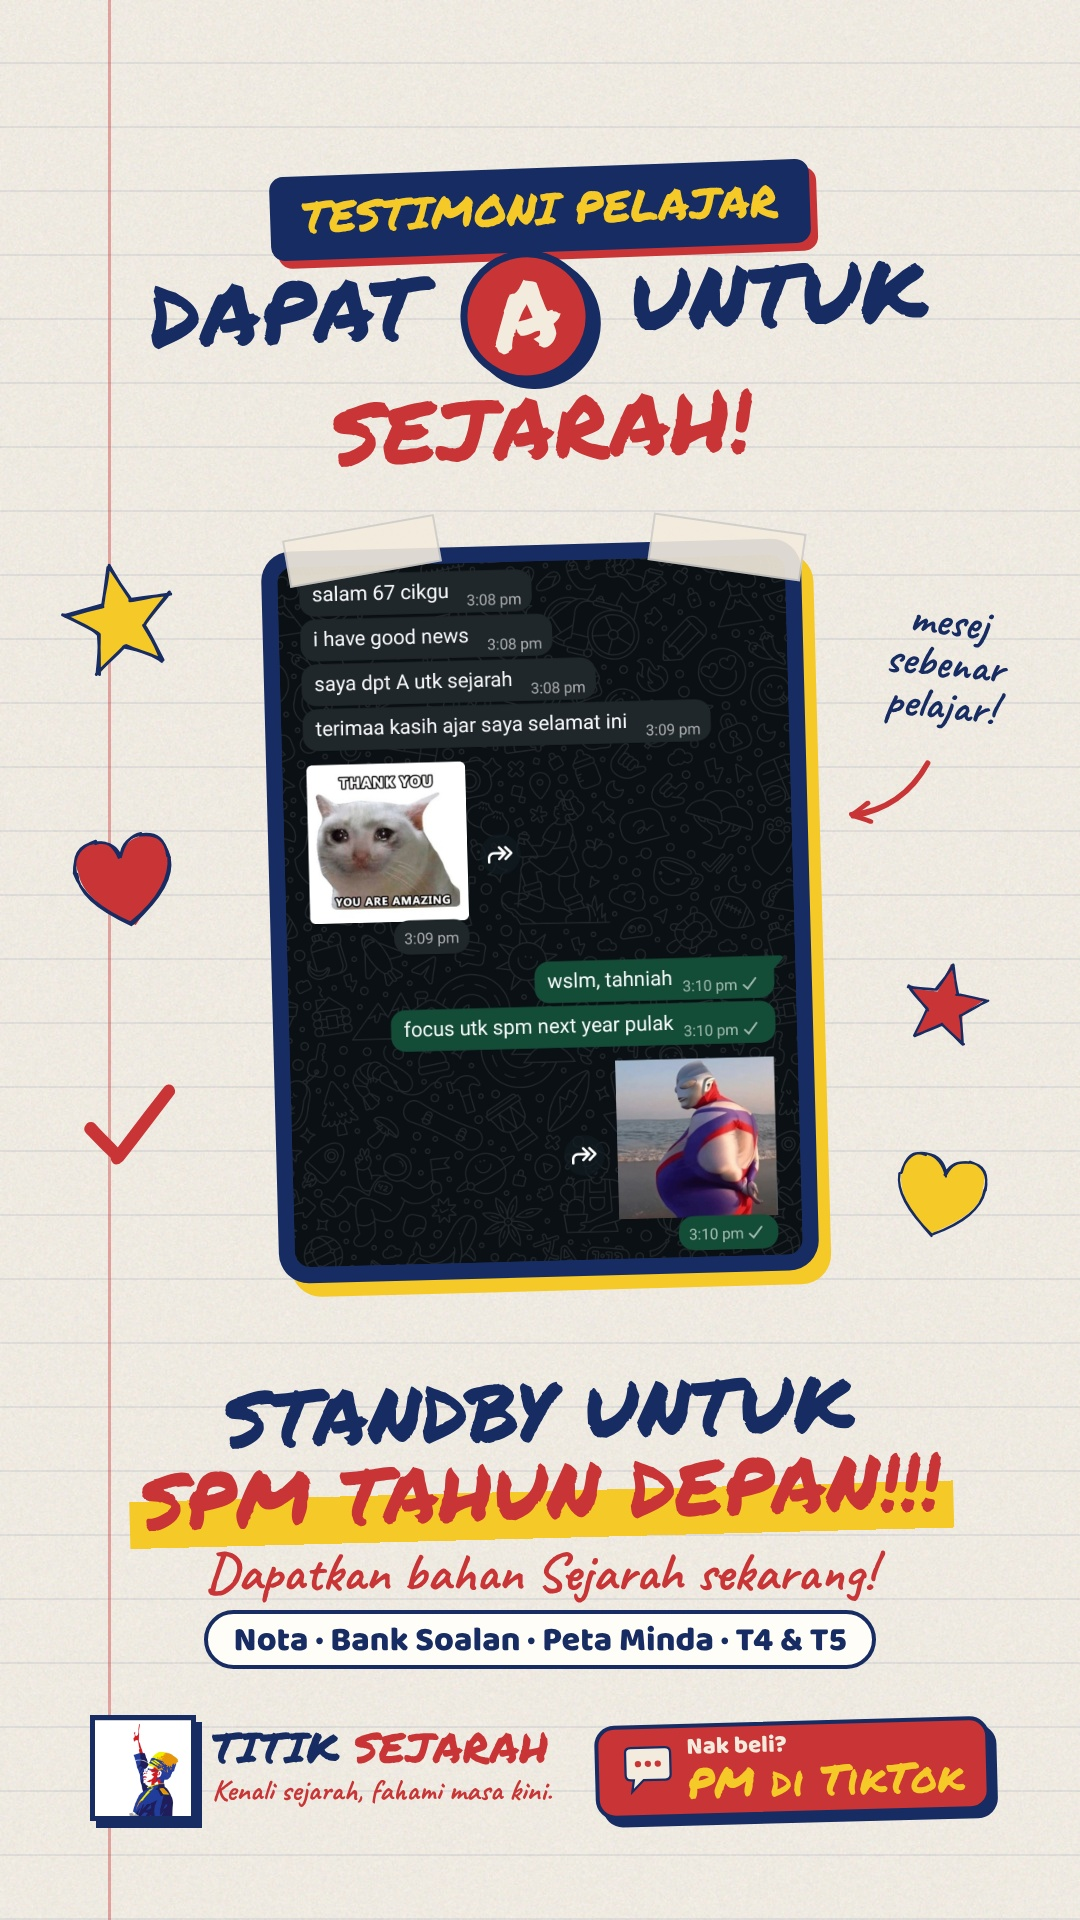
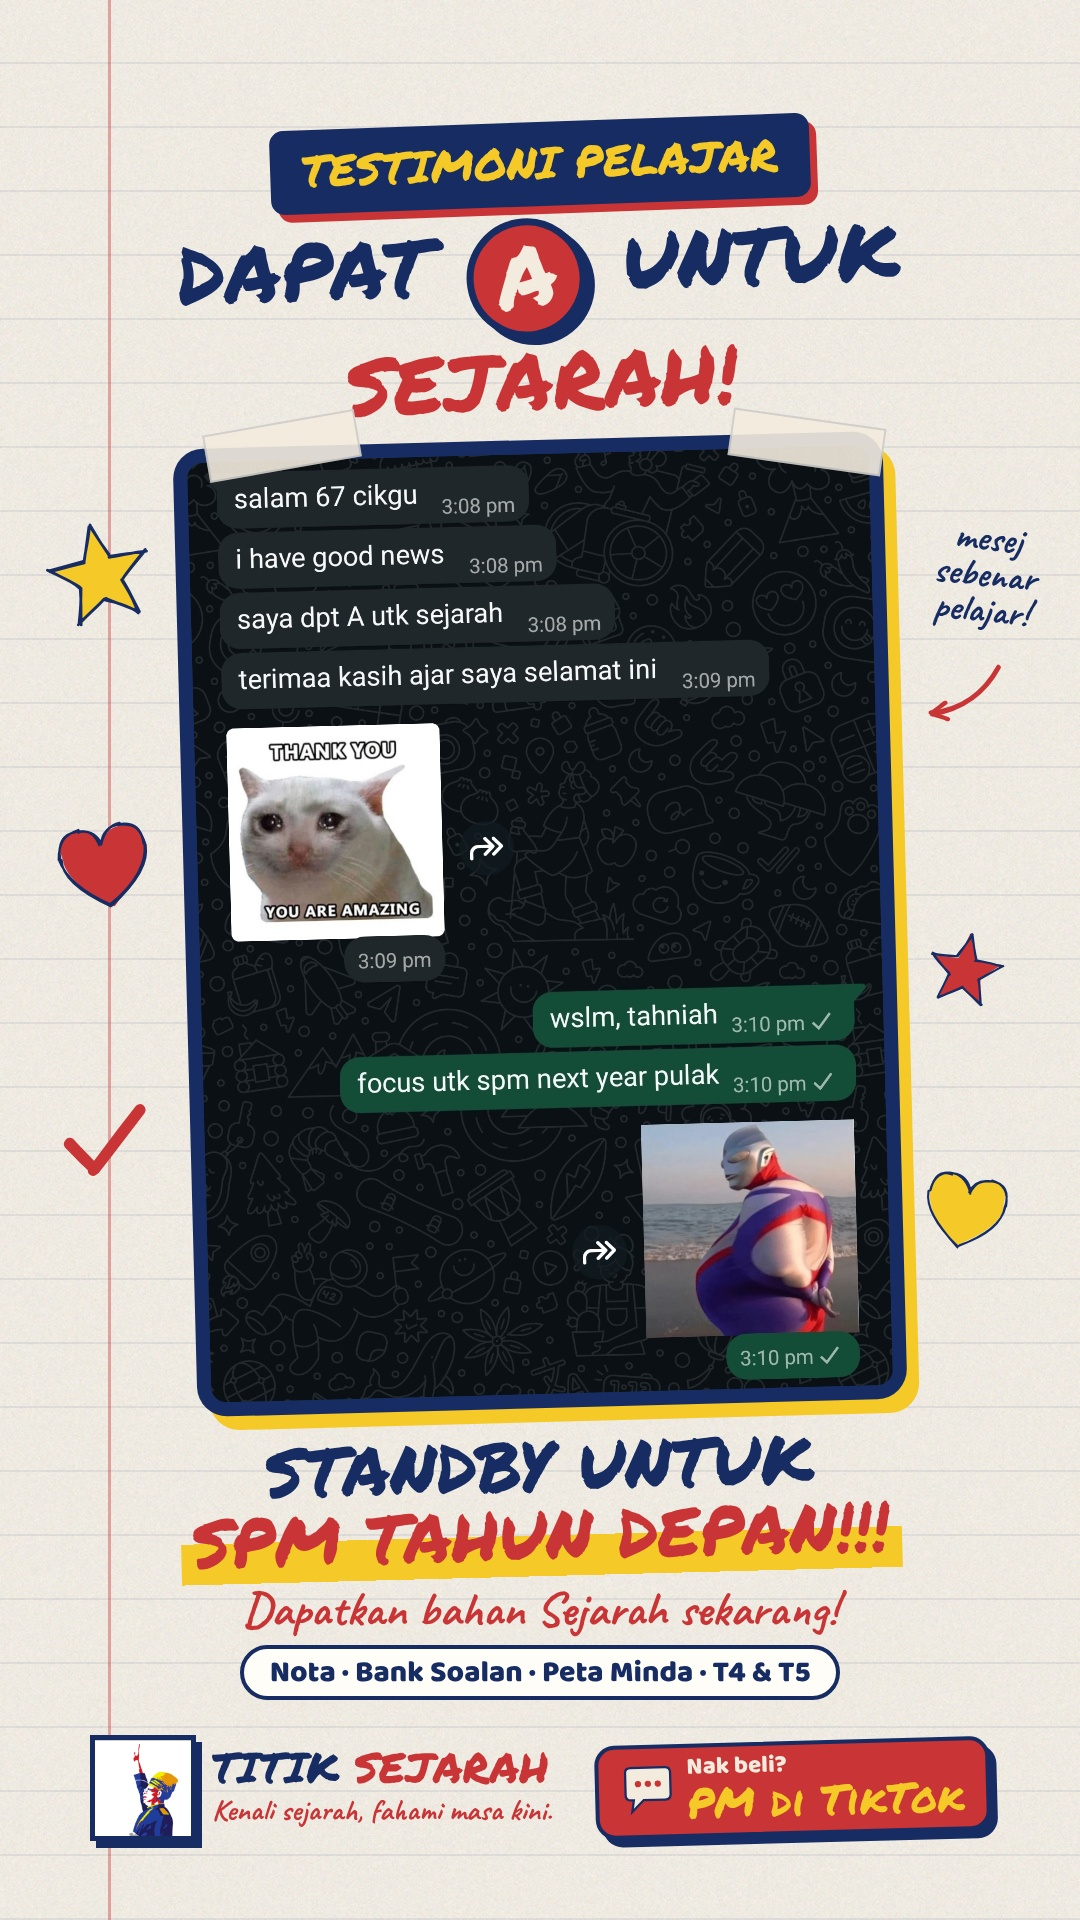
Testimonial 02: enlarge chat screenshot (~30% bigger) and rebalance layout
Claude-Session: https://claude.ai/code/session_01J6XTmEEfaGyASqYC8kTvFV

diff --git a/engine/poster_testi02.html b/engine/poster_testi02.html
@@ -18,17 +18,17 @@ html,body{margin:0;width:1080px;height:1920px;overflow:hidden}
 .ctr{left:0;width:1080px;text-align:center}
 .red{color:#C93436}
 .chip{display:inline-block;background:#172C63;color:#F5C928;font-family:'Marker';font-size:44px;padding:8px 32px 12px;border-radius:14px;box-shadow:7px 8px 0 #C93436}
-.head{font-family:'Marker';font-size:86px;line-height:1.0;white-space:nowrap}
-.gA{display:inline-block;background:#C93436;color:#F3EBDD;border:7px solid #172C63;border-radius:50%;width:118px;height:118px;line-height:108px;text-align:center;font-size:96px;box-shadow:7px 8px 0 #172C63;transform:rotate(-8deg);margin:0 6px;vertical-align:-14px}
-.shot{left:270px;top:545px;width:540px;box-sizing:border-box;padding:16px;background:#172C63;border-radius:30px;box-shadow:12px 14px 0 #F5C928;transform:rotate(-1.5deg)}
+.head{font-family:'Marker';font-size:80px;line-height:1.0;white-space:nowrap}
+.gA{display:inline-block;background:#C93436;color:#F3EBDD;border:7px solid #172C63;border-radius:50%;width:106px;height:106px;line-height:96px;text-align:center;font-size:86px;box-shadow:7px 8px 0 #172C63;transform:rotate(-8deg);margin:0 6px;vertical-align:-14px}
+.shot{left:185px;top:440px;width:710px;box-sizing:border-box;padding:14px;background:#172C63;border-radius:30px;box-shadow:12px 14px 0 #F5C928;transform:rotate(-1.5deg)}
 .shot img{display:block;width:100%;border-radius:16px}
 .tape{position:absolute;width:150px;height:44px;background:rgba(243,235,221,.9);border:2px solid rgba(23,44,99,.15)}
-.note{font-family:'Caveat';font-weight:700;font-size:44px;color:#172C63;line-height:.95;text-align:center}
-.cta1{font-family:'Marker';font-size:78px;line-height:1.02;white-space:nowrap}
+.note{font-family:'Caveat';font-weight:700;font-size:38px;color:#172C63;line-height:.95;text-align:center}
+.cta1{font-family:'Marker';font-size:68px;line-height:1.02;white-space:nowrap}
 .hl{background:linear-gradient(to bottom,transparent 52%,#F5C928 52%,#F5C928 94%,transparent 94%);padding:0 12px}
-.cta2{font-family:'Caveat';font-weight:700;font-size:54px;color:#C93436;line-height:1}
-.prod{display:inline-block;font-family:'Baloo';font-weight:800;font-size:34px;line-height:1.1;background:#FFFDF7;border:4px solid #172C63;border-radius:999px;padding:8px 26px 6px}
-.foot{left:90px;width:900px;top:1715px;display:flex;align-items:center;justify-content:space-between}
+.cta2{font-family:'Caveat';font-weight:700;font-size:48px;color:#C93436;line-height:1}
+.prod{display:inline-block;font-family:'Baloo';font-weight:800;font-size:30px;line-height:1.1;background:#FFFDF7;border:4px solid #172C63;border-radius:999px;padding:8px 26px 6px}
+.foot{left:90px;width:900px;top:1735px;display:flex;align-items:center;justify-content:space-between}
 .brand{display:flex;align-items:center;gap:16px}
 .brand .dp{width:96px;height:96px;border:5px solid #172C63;background:#fff url(../assets/brand/titik-sejarah-dp-square.jpg) center/cover;box-shadow:6px 7px 0 #172C63;flex:none}
 .brand .t{font-family:'Marker';font-size:42px;line-height:.95}
@@ -51,26 +51,26 @@ await document.fonts.ready;
 setSeed(202);
 
 // 1) Label + headline from the student's own message ("saya dpt A utk sejarah")
-add('<span class="chip">TESTIMONI PELAJAR</span>', 'top:168px;transform:rotate(-2deg)', 'abs ctr');
-add('DAPAT <span class="gA">A</span> UNTUK<br><span class="red">SEJARAH!</span>', 'top:250px;transform:rotate(-2deg)', 'abs ctr head');
+add('<span class="chip">TESTIMONI PELAJAR</span>', 'top:122px;transform:rotate(-2deg)', 'abs ctr');
+add('DAPAT <span class="gA">A</span> UNTUK<br><span class="red">SEJARAH!</span>', 'top:218px;transform:rotate(-2deg)', 'abs ctr head');
 
 // 2) The real conversation (full screenshot, unedited)
 add('<img src="../assets/testimonials/testi02_source.jpg" alt="">', '', 'abs shot');
-add('', 'left:285px;top:527px;transform:rotate(-10deg)', 'abs tape');
-add('', 'left:650px;top:523px;transform:rotate(8deg)', 'abs tape');
+add('', 'left:205px;top:422px;transform:rotate(-10deg)', 'abs tape');
+add('', 'left:730px;top:418px;transform:rotate(8deg)', 'abs tape');
 // margin notes + doodles
-add('mesej<br>sebenar<br>pelajar!', 'left:845px;top:600px;width:200px;transform:rotate(6deg)', 'abs note');
-add(D.arrow(110, 10, 10, 80, { w: 120, h: 90, color: C.red, sw: 6, bend: -0.25 }), 'left:845px;top:755px;width:90px');
-add(D.star(C.gold), 'left:60px;top:560px;width:120px;transform:rotate(-12deg)');
-add(D.heart(C.red), 'left:70px;top:830px;width:110px;transform:rotate(-10deg)');
-add(D.check(C.red), 'left:80px;top:1080px;width:100px');
-add(D.star(C.red), 'left:900px;top:960px;width:90px;transform:rotate(10deg)');
-add(D.heart(C.gold), 'left:890px;top:1150px;width:100px;transform:rotate(12deg)');
+add('mesej<br>sebenar<br>pelajar!', 'left:900px;top:520px;width:170px;transform:rotate(6deg)', 'abs note');
+add(D.arrow(110, 10, 10, 80, { w: 120, h: 90, color: C.red, sw: 6, bend: -0.25 }), 'left:925px;top:660px;width:80px');
+add(D.star(C.gold), 'left:45px;top:520px;width:110px;transform:rotate(-12deg)');
+add(D.heart(C.red), 'left:55px;top:820px;width:100px;transform:rotate(-10deg)');
+add(D.check(C.red), 'left:60px;top:1100px;width:90px');
+add(D.star(C.red), 'left:925px;top:930px;width:80px;transform:rotate(10deg)');
+add(D.heart(C.gold), 'left:920px;top:1170px;width:90px;transform:rotate(12deg)');
 
 // 3) Call to action
-add('STANDBY UNTUK<br><span class="hl"><span class="red">SPM TAHUN DEPAN!!!</span></span>', 'top:1370px;transform:rotate(-1.5deg)', 'abs ctr cta1');
-add('Dapatkan bahan Sejarah sekarang!', 'top:1545px', 'abs ctr cta2');
-add('<span class="prod">Nota · Bank Soalan · Peta Minda · T4 &amp; T5</span>', 'top:1610px', 'abs ctr');
+add('STANDBY UNTUK<br><span class="hl"><span class="red">SPM TAHUN DEPAN!!!</span></span>', 'top:1430px;transform:rotate(-1.5deg)', 'abs ctr cta1');
+add('Dapatkan bahan Sejarah sekarang!', 'top:1585px', 'abs ctr cta2');
+add('<span class="prod">Nota · Bank Soalan · Peta Minda · T4 &amp; T5</span>', 'top:1645px', 'abs ctr');
 
 // 4) Brand + how to buy
 add(`<div class="brand"><div class="dp"></div><div><div class="t">TITIK <span class="red">SEJARAH</span></div><div class="tg">Kenali sejarah, fahami masa kini.</div></div></div>
